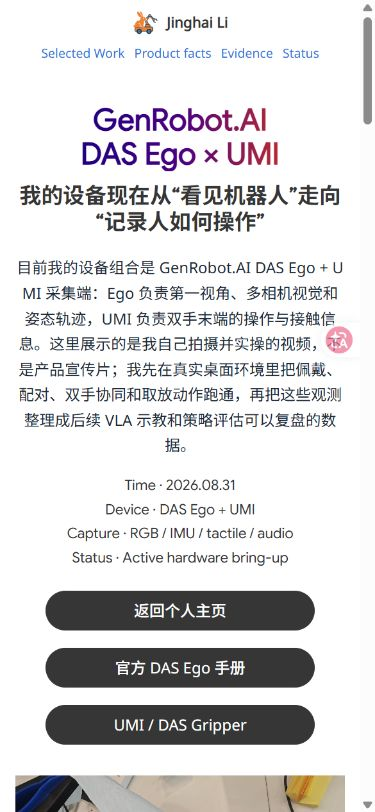
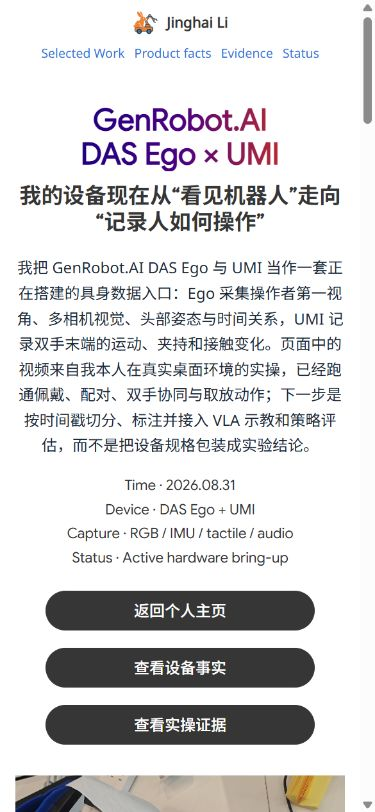
强化DAS Ego与UMI实机研究叙事并移除外部手册直链
重写首页与详情页文案，明确Ego第一视角采集、UMI双手末端状态、本人已完成的佩戴配对与真实桌面操作，以及正在推进的MCAP整理和VLA示教；更新设备事实边界、实操截图与README，完成桌面和390px移动端视频解码、无溢出及直链检查。

diff --git a/RabbitRobot/projects/rabbitrobot-ego-umi.html b/RabbitRobot/projects/rabbitrobot-ego-umi.html
@@ -30,7 +30,7 @@
       <h1>GenRobot.AI <span style="white-space: nowrap;">DAS Ego × UMI</span></h1>
       <p class="subtitle">我的设备现在从“看见机器人”走向“记录人如何操作”</p>
       <p class="summary">
-        目前我的设备组合是 GenRobot.AI DAS Ego + UMI 采集端：Ego 负责第一视角、多相机视觉和姿态轨迹，UMI 负责双手末端的操作与接触信息。这里展示的是我自己拍摄并实操的视频，不是产品宣传片；我先在真实桌面环境里把佩戴、配对、双手协同和取放动作跑通，再把这些观测整理成后续 VLA 示教和策略评估可以复盘的数据。
+        我把 GenRobot.AI DAS Ego 与 UMI 当作一套正在搭建的具身数据入口：Ego 采集操作者第一视角、多相机视觉、头部姿态与时间关系，UMI 记录双手末端的运动、夹持和接触变化。页面中的视频来自我本人在真实桌面环境的实操，已经跑通佩戴、配对、双手协同与取放动作；下一步是按时间戳切分、标注并接入 VLA 示教和策略评估，而不是把设备规格包装成实验结论。
       </p>
       <div class="meta-row">
         <span class="meta-pill">Time · 2026.08.31</span>
@@ -40,8 +40,8 @@
       </div>
       <div class="hero-actions">
         <a class="button primary" href="../../index.html#work-title">返回个人主页</a>
-        <a class="button" href="https://docs.genrobot.ai/zh/products/das-ego" target="_blank" rel="noopener noreferrer">官方 DAS Ego 手册</a>
-        <a class="button" href="https://genrobot.com/products/das" target="_blank" rel="noopener noreferrer">UMI / DAS Gripper</a>
+        <a class="button" href="#facts">查看设备事实</a>
+        <a class="button" href="#evidence">查看实操证据</a>
       </div>
     </div>
     <figure class="hero-media">
@@ -58,7 +58,7 @@
       <div class="container">
         <p class="kicker">Product Facts</p>
         <h2>把官方产品能力和我的实操证据分开记录</h2>
-        <p class="section-lead">官方资料回答“设备能采什么”，我的视频回答“今天实际做了什么”；两种证据不混写，避免把产品规格误写成已经完成的研究结果。</p>
+        <p class="section-lead">官方资料回答“设备能采什么”，我的视频回答“今天实际做了什么”；两种证据分层记录，才能清楚证明我正在做 EGO + UMI，而不是只引用产品参数。</p>
         <table class="interface-table verification-table">
           <thead>
             <tr>
@@ -90,7 +90,7 @@
             </tr>
           </tbody>
         </table>
-        <p class="source-note">资料来源：<a href="https://docs.genrobot.ai/zh/products/das-ego" target="_blank" rel="noopener noreferrer">DAS Ego 手册（中文）v2.0</a>、<a href="https://genrobot.com/products/das" target="_blank" rel="noopener noreferrer">GenRobot DAS Gripper 产品页</a>。规格只作为设备背景，不替代我的实机验证。</p>
+        <p class="source-note">资料依据：GenRobot.AI DAS Ego 产品手册与 DAS / UMI 产品资料。页面只保留归纳后的设备事实，不重复放置外部直链；规格只作为设备背景，不替代我的实机验证。</p>
       </div>
     </section>
 
@@ -126,8 +126,8 @@
         <h2>从“采到数据”走向“数据可用于机器人学习”</h2>
         <div class="feature-grid">
           <article class="feature-card">
-            <h3>第一视角观测</h3>
-            <p>用 Ego 记录操作者看到的桌面场景、设备朝向和动作上下文，把“手为什么这样动”留在时间序列里。</p>
+            <h3>Ego / 第一视角上下文</h3>
+            <p>用 Ego 记录操作者看到的桌面场景、设备朝向和动作上下文，把“手为什么这样动”保留在可对齐的时间序列里。</p>
             <ul>
               <li>6-camera RGB</li>
               <li>头部姿态与 IMU</li>
@@ -135,8 +135,8 @@
             </ul>
           </article>
           <article class="feature-card">
-            <h3>双手操作接口</h3>
-            <p>用 UMI 末端侧记录双手协同、夹爪开合和接触过程，后续再接入更细的触觉与状态字段。</p>
+            <h3>UMI / 手级动作接口</h3>
+            <p>用 UMI 末端侧记录双手协同、夹爪开合和接触过程，把视觉中的意图落到可分析的动作与状态字段。</p>
             <ul>
               <li>双手末端动作</li>
               <li>视觉 / 触觉 / 姿态</li>
@@ -144,8 +144,8 @@
             </ul>
           </article>
           <article class="feature-card">
-            <h3>MCAP 可复盘</h3>
-            <p>按官方数据链路保留原始采集文件，后续将不同模态按时间戳切片，区分成功动作、犹豫、接触和失败。</p>
+            <h3>从采集到策略</h3>
+            <p>按 MCAP 数据链路保留原始采集文件，后续将不同模态按时间戳切片，区分成功动作、犹豫、接触和失败。</p>
             <ul>
               <li>原始 MCAP</li>
               <li>片段化标注</li>
@@ -153,8 +153,8 @@
             </ul>
           </article>
           <article class="feature-card">
-            <h3>接到 VLA 研究</h3>
-            <p>机器狗和 AMR 负责导航到目标附近，Ego + UMI 负责把语言目标落实成观察、动作和反馈。</p>
+            <h3>接入 VLA 研究</h3>
+            <p>机器狗和 AMR 负责导航到目标附近，Ego + UMI 负责把语言目标落实成观察、动作和反馈，形成跨平台的具身闭环入口。</p>
             <ul>
               <li>语言目标与示教</li>
               <li>策略输入与动作输出</li>
@@ -180,13 +180,13 @@
           <tbody>
             <tr>
               <td>已完成</td>
-              <td>完成 DAS Ego + UMI 设备的真实桌面实操录像，并将竖屏源视频旋转为横屏页面素材。</td>
-              <td>继续整理原始采集文件、设备配对状态和可复盘片段。</td>
+              <td>完成 DAS Ego + UMI 设备佩戴、配对、双手桌面操作实录，并将源视频整理为横屏页面素材。</td>
+              <td>继续归档原始采集文件、设备配对状态与可复盘动作片段。</td>
             </tr>
             <tr>
               <td>正在推进</td>
-              <td>围绕第一视角、双手协同和接触操作建立稳定的数据采集习惯。</td>
-              <td>完成多模态时间戳对齐、动作切片和失败样例标注。</td>
+              <td>围绕第一视角、双手协同和接触操作，建立 Ego 与 UMI 的稳定采集流程。</td>
+              <td>完成多模态时间戳对齐、动作切片、接触状态标注和失败样例回放。</td>
             </tr>
             <tr>
               <td>尚未宣称</td>

diff --git a/index.html b/index.html
@@ -1427,20 +1427,18 @@
           </video>
         </a>
         <div>
-          <span class="project-kicker">Embodied Data / Ego Capture / UMI</span>
+          <span class="project-kicker">Embodied Data / First-person Capture / Dexterous Manipulation</span>
           <h3>我的设备现在是 DAS Ego &times; UMI</h3>
-          <span class="meta">6-camera RGB &middot; IMU pose &middot; first-person data &middot; tactile manipulation</span>
+          <span class="meta">Ego first-person capture &middot; UMI dual-hand action &middot; time-aligned multimodal data</span>
           <p class="note technical-note">
-            我目前使用 DAS Ego + UMI 采集端，把第一视角视觉、头部姿态、双手操作和接触状态放进同一条具身数据链。视频是我自己的实操记录：在真实桌面环境中完成双手协同、取放与接触动作，先验证设备链路，再为后续 VLA 示教和策略评估积累可复盘样本。
+            我正在用 DAS Ego + UMI 搭建第一视角具身数据链：Ego 负责多相机视觉、头部姿态与时间同步，UMI 负责双手末端轨迹、夹持与接触状态。视频来自我本人在真实桌面环境中的佩戴、配对和双手操作实录；当前继续把多模态片段整理成可复盘、可标注、可进入 VLA 示教与策略评估的样本。
           </p>
           <div class="metric-row">
-            <span class="metric">6-camera RGB · 270° FOV</span>
-            <span class="metric">UMI tactile · 100 Hz</span>
+            <span class="metric">6-camera RGB · ~270° FOV</span>
+            <span class="metric">MCAP · time-aligned capture</span>
           </div>
           <p class="entry-links">
             <a href="RabbitRobot/projects/rabbitrobot-ego-umi.html">查看 Ego + UMI 详情</a>
-            /
-            <a href="https://docs.genrobot.ai/zh/products/das-ego" target="_blank" rel="noopener noreferrer">官方 DAS Ego 手册</a>
           </p>
           <span class="project-date"><time datetime="2026-08-31">2026.08.31</time> · Current device / real operation record</span>
         </div>

diff --git a/README.md b/README.md
@@ -4,22 +4,22 @@ Jinghai Li 的个人主页，保留原有白色横线纸背景、蓝橙配色、
 
 ## 最近更新
 
-### 2026-08-31 - 新增 DAS Ego × UMI 实机数据采集项目
+### 2026-08-31 - 强化 DAS Ego × UMI 实机研究叙事
 
-本次在 `Selected Work` 最前面新增当前设备项目 `DAS Ego + UMI`，使用用户本人拍摄的实操视频作为首页动效与详情页证据。源视频为带 `-90°` 旋转元数据的 4K 竖屏素材；桌面原始文件保持不动，网页使用同分辨率、同帧率的高码率横屏版本，不做 `960×540/1280×720` 降级，同时从同一段实操中提取原始尺寸 PNG 帧。由于 GitHub 普通仓库单文件上限为 100MB 且 GitHub Pages 不支持 Git LFS，页面版本控制在 100MB 内；第一视角采集、双手协同、触觉/状态和 MCAP 数据链路说明保持不变。
+本次在 `Selected Work` 最前面的当前设备项目 `DAS Ego + UMI` 上补强研究型叙事：明确 Ego 的第一视角、多相机、姿态与同步职责，UMI 的双手末端、夹持与接触职责，并把“本人已完成的真实桌面实操”和“正在推进的多模态数据整理 / VLA 示教”分层写清。源视频为带 `-90°` 旋转元数据的 4K 竖屏素材；桌面原始文件保持不动，网页使用同分辨率、同帧率的高码率横屏版本，不做 `960×540/1280×720` 降级，同时从同一段实操中提取原始尺寸 PNG 帧。页面不直接放置外部手册直链，避免把官方规格误写成个人实验结论。
 
 | 内容 | 实际改动与证据 |
 | --- | --- |
 | 首页入口 | `index.html` 在 OmniHand 前新增 `我的设备现在是 DAS Ego × UMI` 卡片，链接到独立详情页 |
 | 视频处理 | `ego_umi_2026_demo_4k.mp4`（约 `90MB`），保持 `3840×2160 / 60fps`，去除 `-90°` 显示旋转并以高码率 H.264 输出横屏；桌面原始 `144MB` 文件不改动 |
 | 真实画面 | `ego_umi_2026_cover_4k.png`、`ego_umi_2026_04_4k.png`、`ego_umi_2026_08_4k.png`、`ego_umi_2026_14_4k.png` 均为 `3840×2160` 原始尺寸无损 PNG |
-| 技术叙事 | 参考 GenRobot DAS Ego 手册与 DAS Gripper 产品资料，写入 6 路 RGB、270° 视场、6 轴 IMU、UMI 触觉/末端状态、MCAP 落盘和 VLA 示教方向 |
+| 技术叙事 | 依据 GenRobot.AI DAS Ego 与 DAS / UMI 产品资料，归纳 6 路 RGB、约 270° 视场、6 轴 IMU、UMI 触觉/末端状态、MCAP 落盘和 VLA 示教方向；页面不重复放置外部手册直链 |
 | 详情页面 | 新增 `RabbitRobot/projects/rabbitrobot-ego-umi.html`，包含横屏视频、官方规格表、四张实操帧、研究定位与诚实状态 |
-| 验证结果 | 本地浏览器确认首页与详情页均解码 `3840×2160 / 60fps` 横屏视频；4 行规格、4 张 `3840×2160` 无损 PNG 证据帧均正常；桌面与 `390×844` 手机端无横向溢出 |
+| 验证结果 | 本地浏览器确认首页与详情页均解码 `3840×2160 / 60fps` 横屏视频；4 行规格、4 张 `3840×2160` 无损 PNG 证据帧均正常；桌面与 `390×844` 手机端无横向溢出；页面直链检查为 0 |
 
 ![DAS Ego × UMI 横屏实操证据](RabbitRobot/images/rabbitrobot/ego_umi_2026_cover_4k.png)
 
-官方资料： [DAS Ego 手册](https://docs.genrobot.ai/zh/products/das-ego) · [GenRobot DAS Gripper / UMI 产品页](https://genrobot.com/products/das)
+官方资料依据：GenRobot.AI DAS Ego 产品手册与 DAS / UMI 产品资料；页面保留归纳后的设备事实，不把规格冒充为个人实验结果。
 
 主页 `Selected Work` 实际效果：
 
